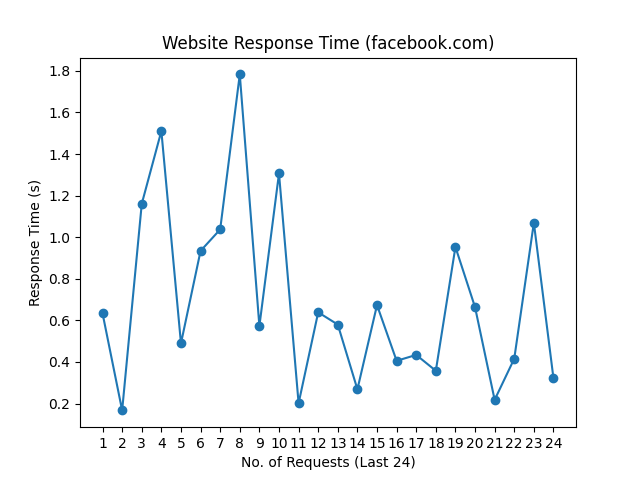
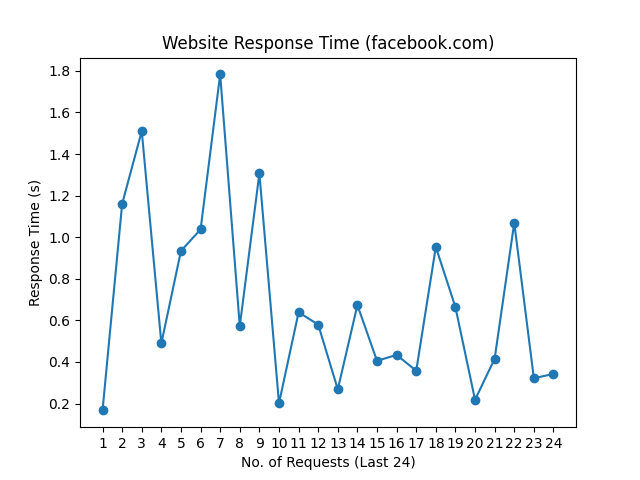
update README.md, history and graph

Changed region(s): [[0.1562, 0.125, 0.875, 0.875]]

diff --git a/README.md b/README.md
@@ -1,10 +1,10 @@
 # Web Monitoring
 
-Last Checked: 16/04/2025 08:22
+Last Checked: 17/04/2025 08:22
 
 | Website | Response Time (s) | Status | Avg Uptime (%) |
 |---------|-------------------|--------|----------------|
 | www.thiswebsiteisdown.net | 0 <br> <img src="graph/thiswebsiteisdown.net.png" alt="Graph" width="200" height="200">  | ❌ Down | 0.00 |
-| www.netflix.com | 1.392354 <br> <img src="graph/netflix.com.png" alt="Graph" width="200" height="200">  | ✅ Up | 99.68 |
-| www.google.com | 0.105560 <br> <img src="graph/google.com.png" alt="Graph" width="200" height="200">  | ✅ Up | 100.00 |
-| www.facebook.com | 0.321731 <br> <img src="graph/facebook.com.png" alt="Graph" width="200" height="200">  | ✅ Up | 100.00 |
+| www.netflix.com | 1.283095 <br> <img src="graph/netflix.com.png" alt="Graph" width="200" height="200">  | ✅ Up | 99.68 |
+| www.google.com | 0.071806 <br> <img src="graph/google.com.png" alt="Graph" width="200" height="200">  | ✅ Up | 100.00 |
+| www.facebook.com | 0.342092 <br> <img src="graph/facebook.com.png" alt="Graph" width="200" height="200">  | ✅ Up | 100.00 |
